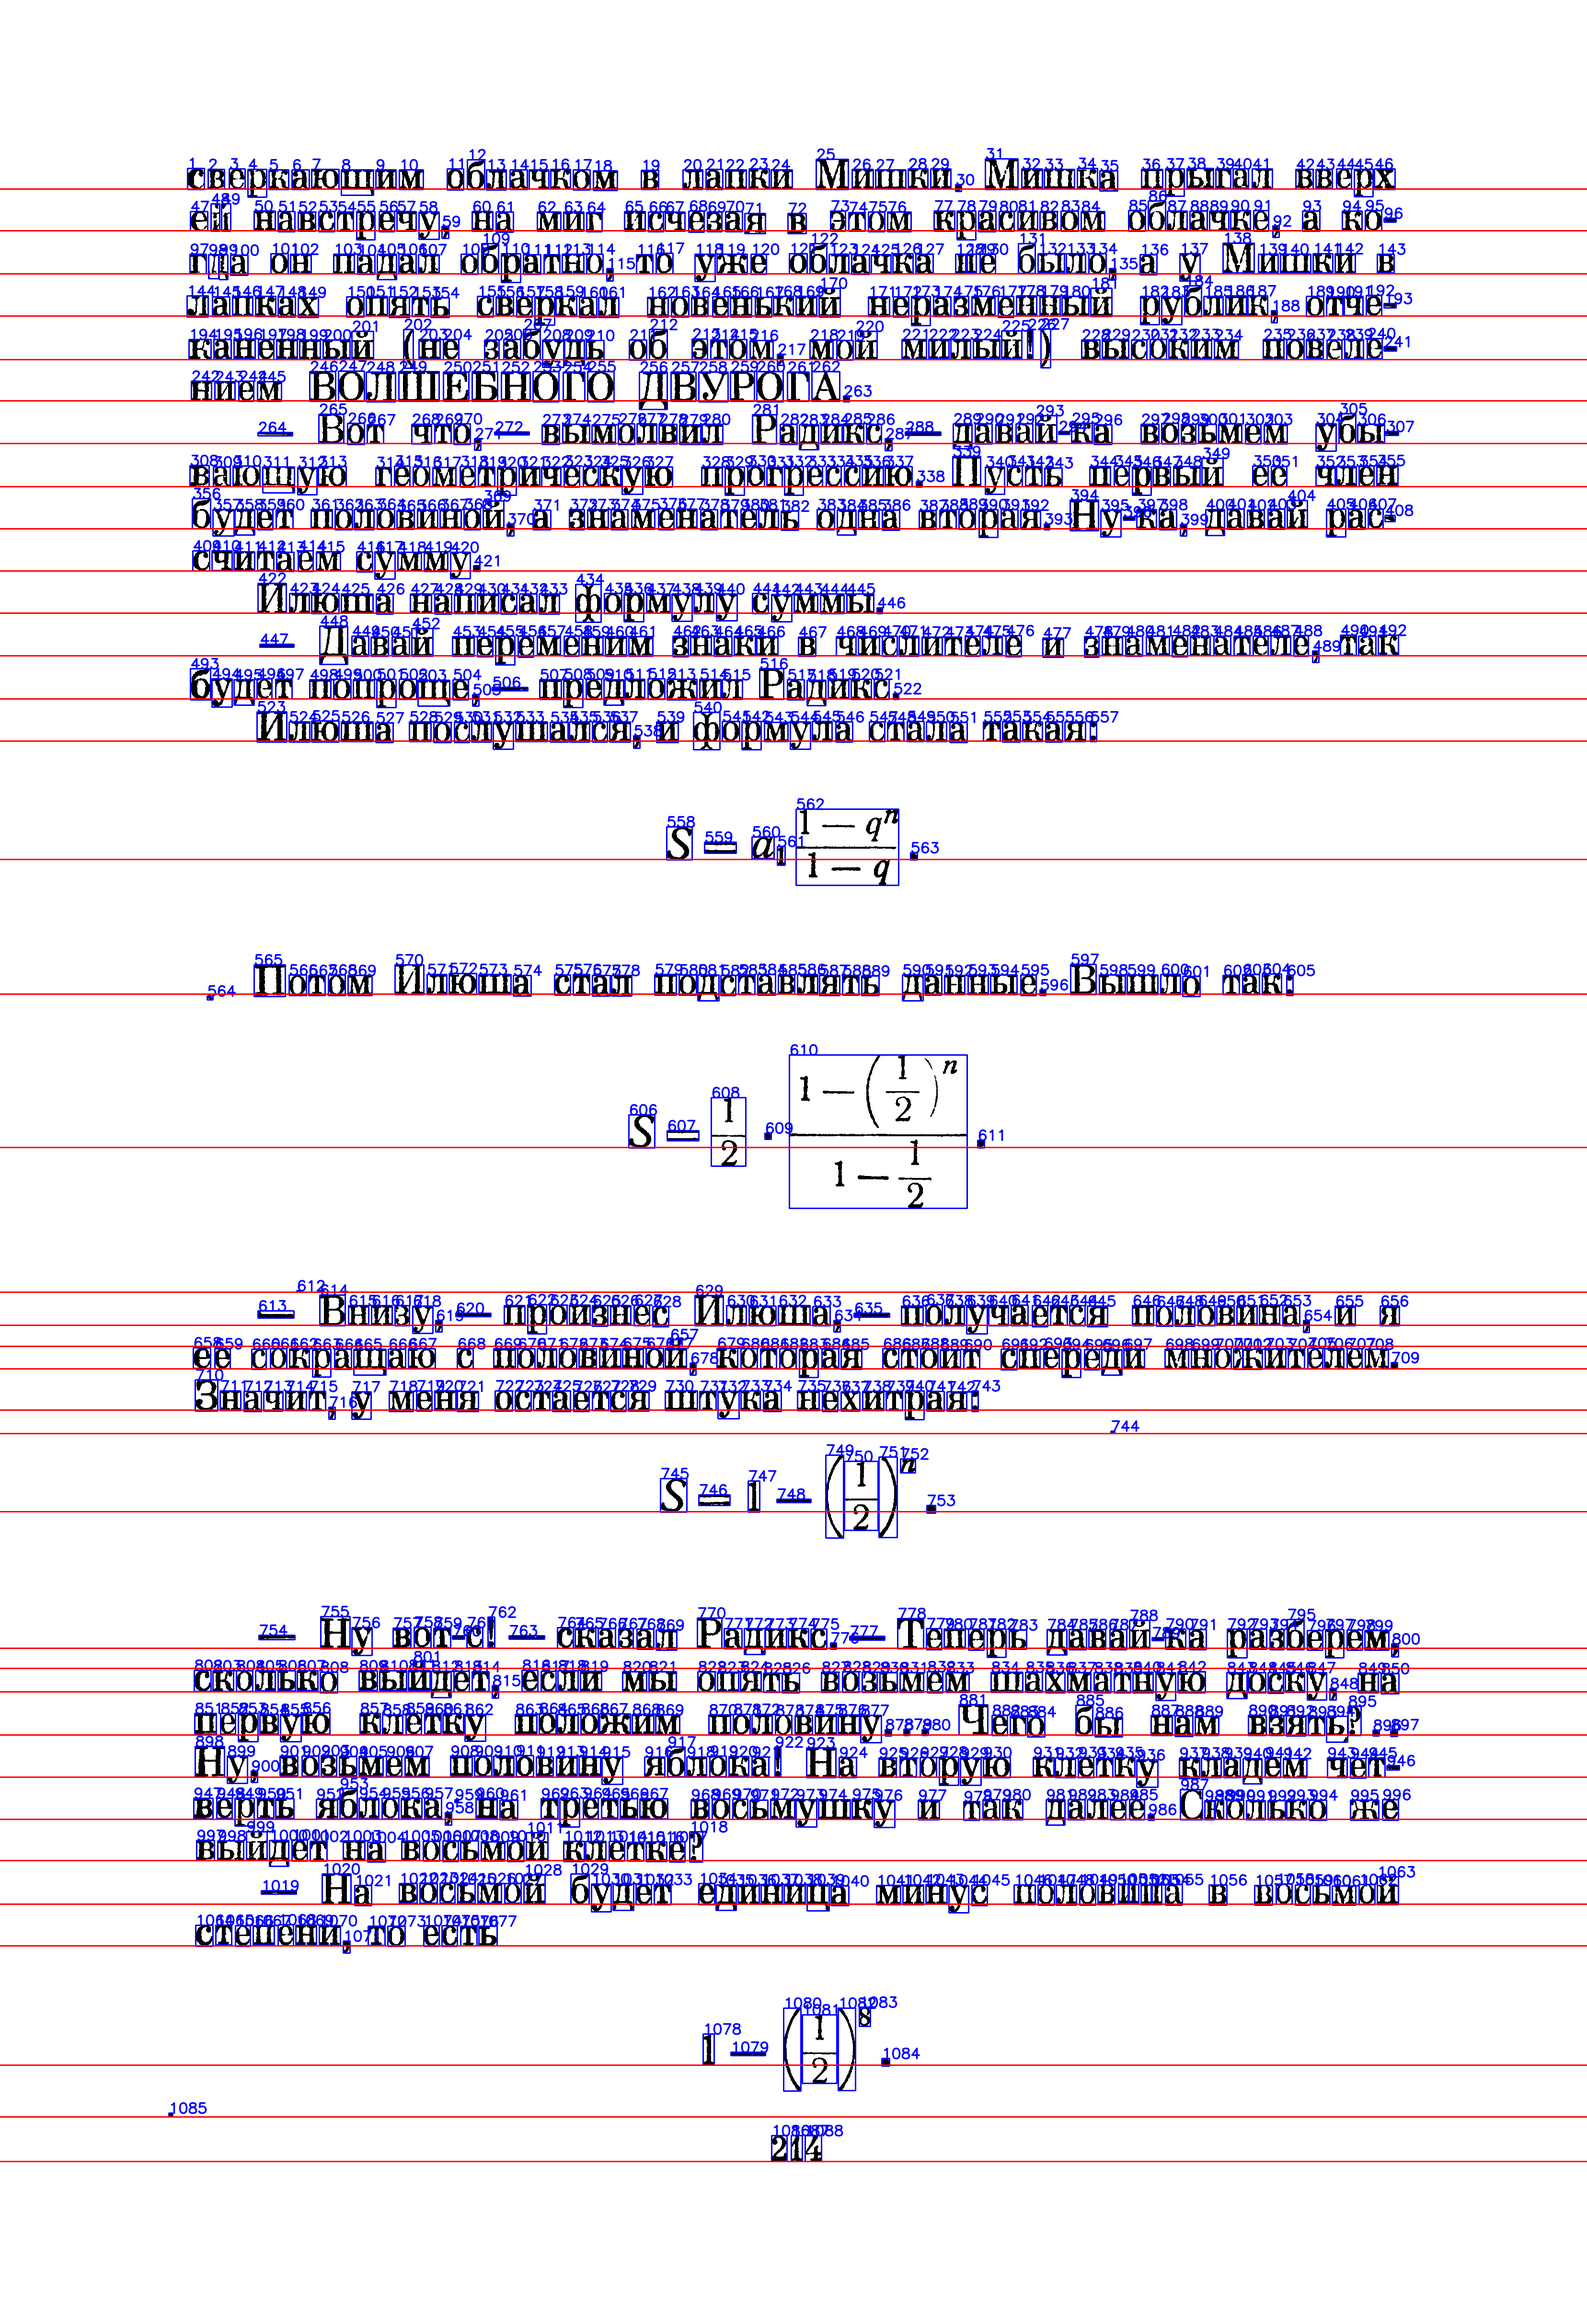
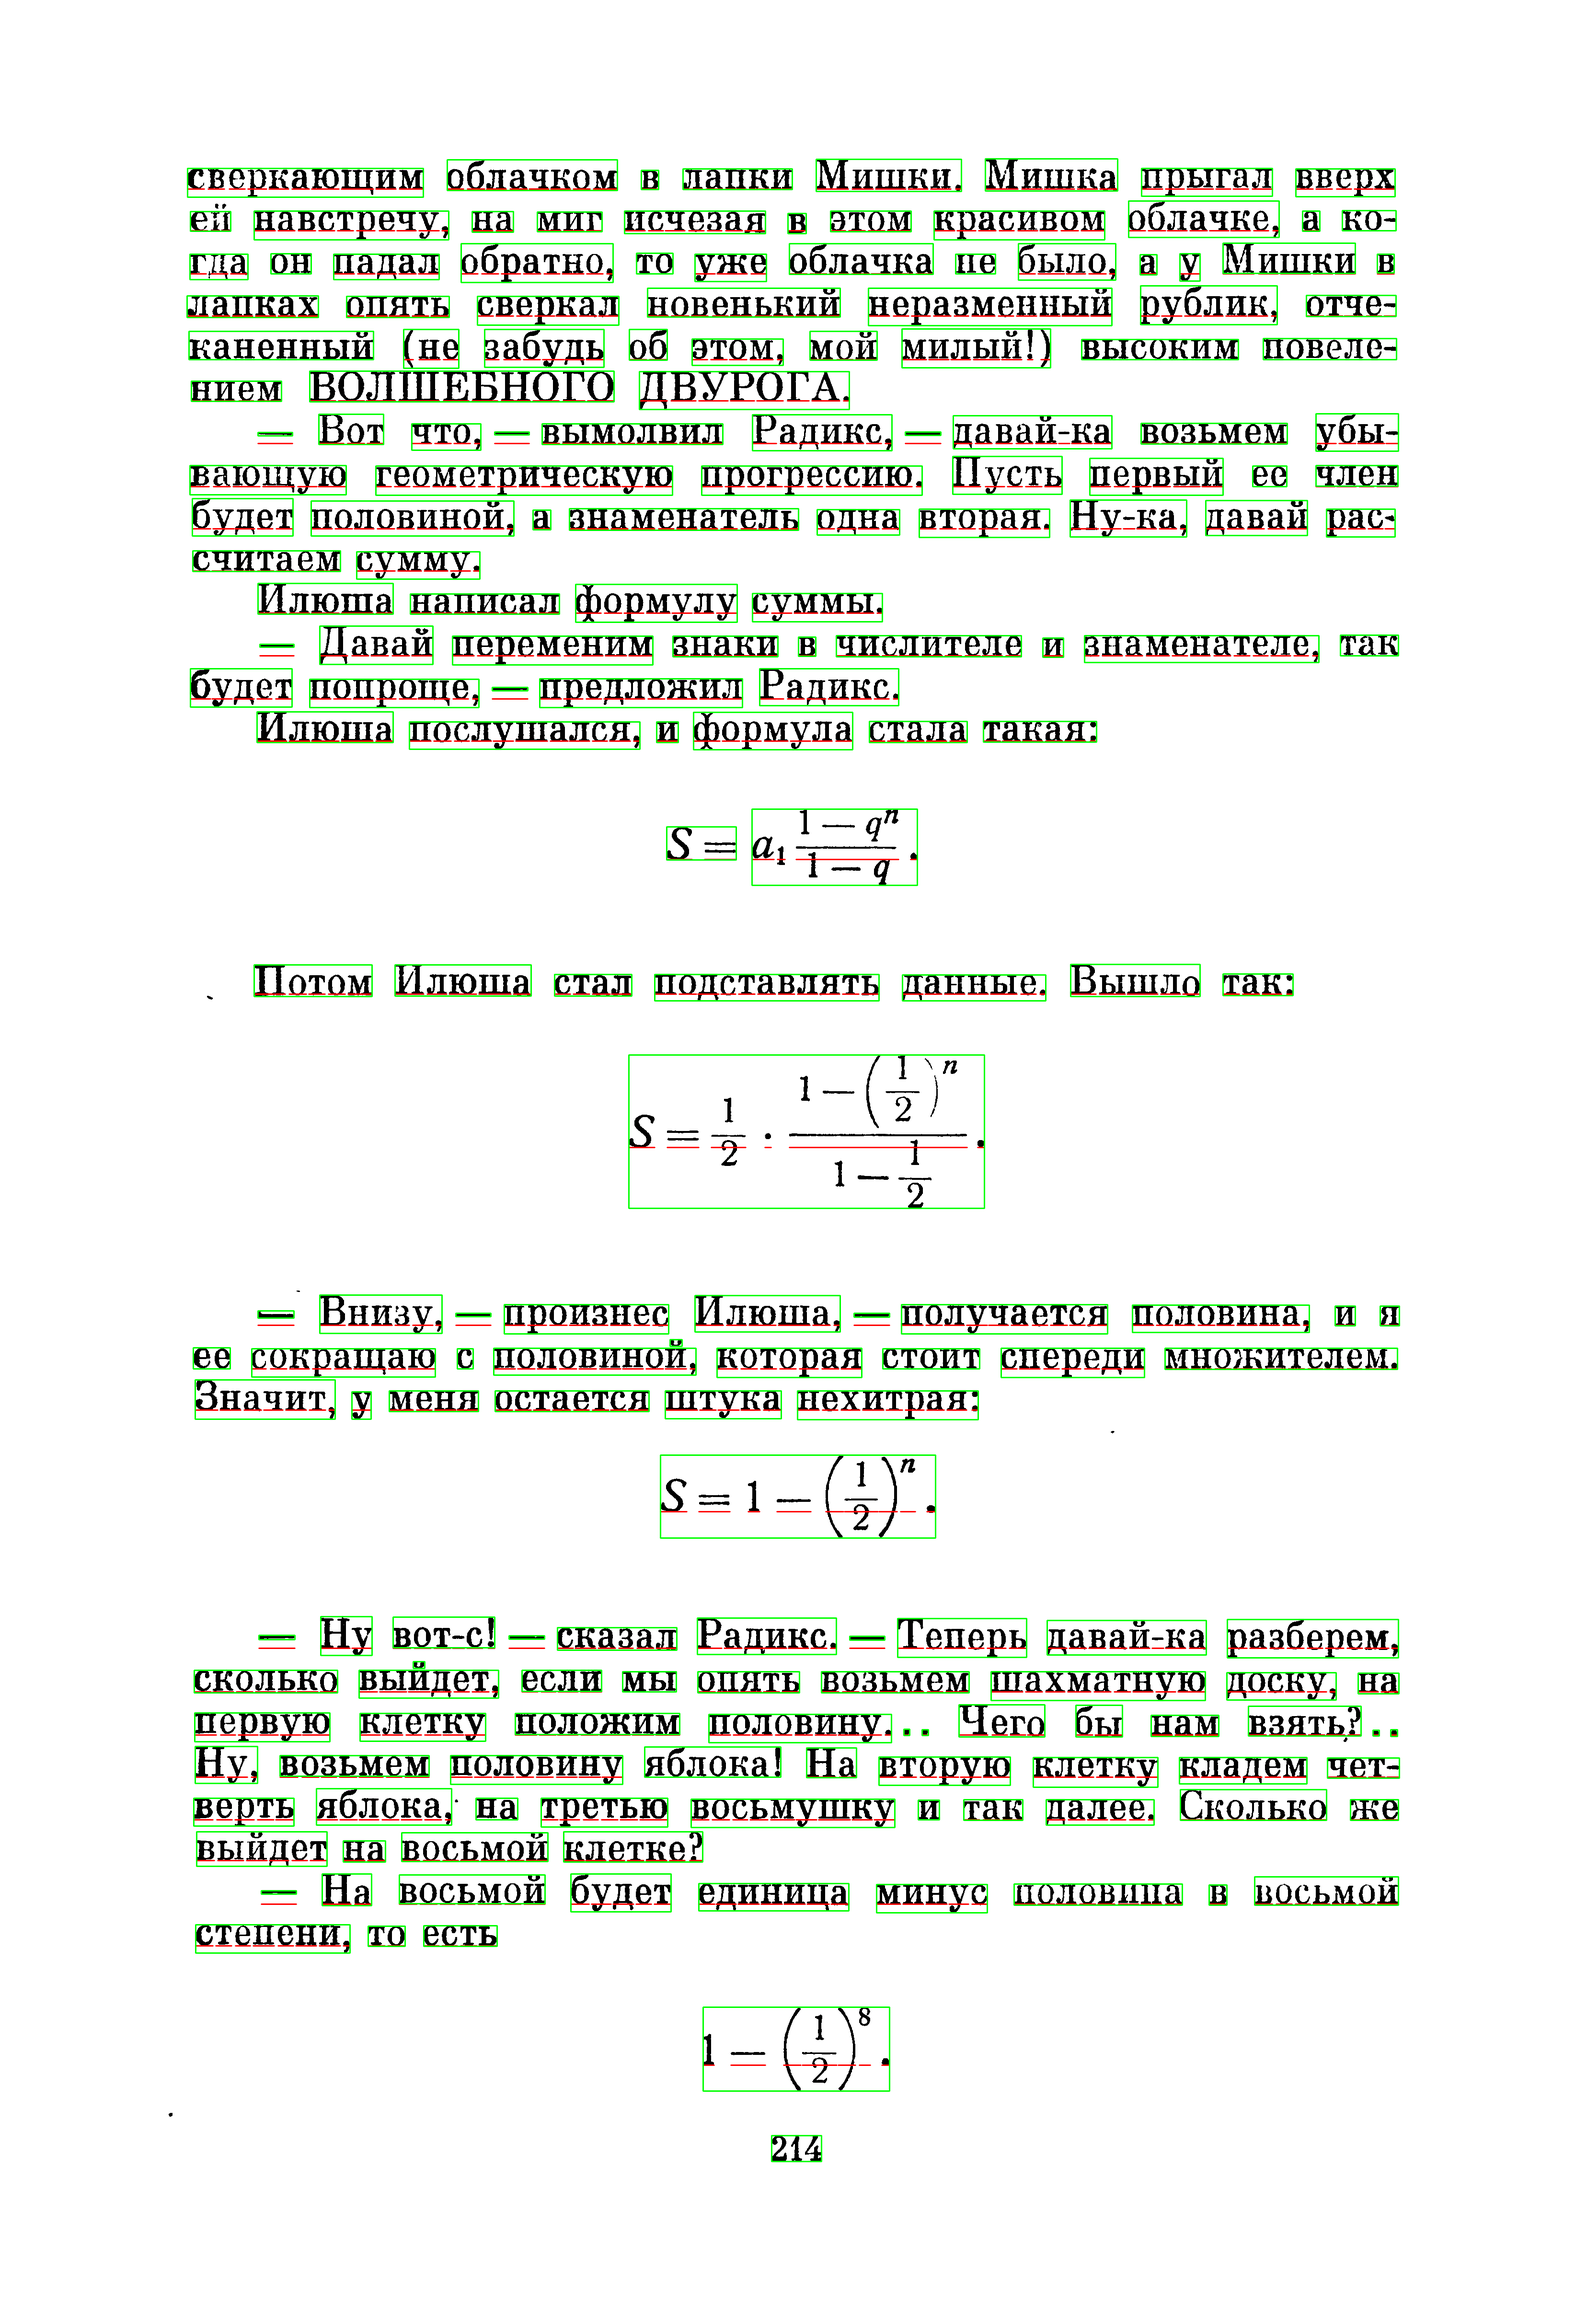
ignore small components

diff --git a/segmentation.py b/segmentation.py
@@ -1,10 +1,34 @@
+import copy
 from collections import defaultdict
 
 import cv2
 import intervaltree
 import networkx as nx
 from pyflann import *
-from segm import join_rects
+from segm import join_rects, glyph_result
+
+
+class Glyph:
+    def __init__(self, gr, baseline):
+        self.baseline_shift = baseline - gr.y
+        self.x = gr.x
+        self.y = gr.y
+        self.width = gr.width
+        self.height = gr.height
+
+    @staticmethod
+    def from_glyph_results(glyph_results, baseline):
+        return [Glyph(gr, baseline) for gr in glyph_results]
+
+    def __str__(self):
+        return f"x = {self.x}, y = {self.y}, width = {self.width}, height = {self.height}, shift = {self.baseline_shift}"
+
+
+def find_baseline(glyphs):
+    lowers = [g.y + g.height for g in glyphs]
+    hist, bin_edges = np.histogram(lowers, bins=50)
+    maxind = np.argmax(hist)
+    return bin_edges[maxind]
 
 
 def all_pairs(s):
@@ -81,6 +105,42 @@ def find_neighbors(jr, nearest_neighbors):
     return ret_val
 
 
+def word_limits(interword_gaps, glyphs):
+    glyphs = copy.copy(glyphs)
+    arr = list(interword_gaps.keys())
+    words = []
+    if len(arr) == 0:
+        words.append(copy.copy(glyphs[:]))
+        return words
+
+    limits = [arr[0]]
+    for i, el in enumerate(arr):
+        if i != len(arr) - 1:
+            limits.append(arr[i + 1] - el)
+        else:
+            limits.append(len(glyphs) - el)
+
+    for l in limits:
+        words.append(copy.copy(glyphs[:l]))
+        glyphs[:l] = []
+
+    return words
+
+
+def group_words(glyphs):
+    av_height = np.mean([g.height for g in glyphs])
+    gaps = []
+    interword_gaps = dict()
+    for i in range(1, len(glyphs)):
+        gc = glyphs[i]
+        gp = glyphs[i - 1]
+        gap = gc.x - (gp.x + gp.width)
+        gaps.append(gap)
+        if gap > 0.5 * av_height:
+            interword_gaps[i] = gap
+    return interword_gaps
+
+
 def group_glyphs(glyphs):
     numbered_glyphs = defaultdict(list)
     for i, g in enumerate(glyphs):
@@ -98,23 +158,28 @@ def group_glyphs(glyphs):
         for intr in x:
             inds = numbered_glyphs[(intr.begin, intr.end)]
             all_inds.update(inds)
-        minx = float("inf")
-        maxx = 0
-        miny = float("inf")
-        maxy = 0
-        for ind in all_inds:
-            g = glyphs[ind]
-            if g.x < minx:
-                minx = g.x
-            if g.x + g.width > maxx:
-                maxx = g.x + g.width
-            if g.y < miny:
-                miny = g.y
-            if g.y + g.height > maxy:
-                maxy = g.y + g.height
-        new_rects.append((minx, maxx - minx, miny, maxy - miny))
+        maxx, maxy, minx, miny = bounding_rect(all_inds, glyphs)
+        new_rects.append(glyph_result((minx, miny, maxx - minx, maxy - miny)))
 
     return new_rects
+
+
+def bounding_rect(all_inds, glyphs):
+    minx = float("inf")
+    maxx = 0
+    miny = float("inf")
+    maxy = 0
+    for ind in all_inds:
+        g = glyphs[ind]
+        if g.x < minx:
+            minx = g.x
+        if g.x + g.width > maxx:
+            maxx = g.x + g.width
+        if g.y < miny:
+            miny = g.y
+        if g.y + g.height > maxy:
+            maxy = g.y + g.height
+    return maxx, maxy, minx, miny
 
 
 def find_ordered_glyphs(filename):
@@ -129,6 +194,7 @@ def find_ordered_glyphs(filename):
     centroids = np.zeros((len(jr), 2))
     for i, r in enumerate(jr):
         centroids[i, :] = np.array([r.x + r.width / 2, r.y + r.height / 2])
+
     flann = FLANN()
     params = flann.build_index(centroids, algorithm="kdtree", trees=4)
     nearest_neighbors, dists = flann.nn_index(centroids, 20, checks=params["checks"])
@@ -160,28 +226,66 @@ def find_ordered_glyphs(filename):
 
     lines = dict(sorted(lines.items(), key=lambda x: x[0].begin))
     new_lines = dict()
+    baselines = []
+    lines_of_words = []
     for k, v in lines.items():
         grouped_glyphs = group_glyphs(v)
-        new_lines[k] = sorted(grouped_glyphs, key=lambda x: x[0])
+        lower = find_baseline(grouped_glyphs)
+        baselines.append(lower)
+        all_glyphs = sorted(grouped_glyphs, key=lambda x: x[0])
+        interword_gaps = group_words(all_glyphs)
+        words = word_limits(interword_gaps, all_glyphs)
+        ##aaa = [Glyph.from_glyph_results(word, lower) for word in words]
+        lines_of_words.append([Glyph.from_glyph_results(word, lower) for word in words])
+        new_lines[k] = all_glyphs
 
     t = [v for k, v in new_lines.items()]
     flat_list = [item for sublist in t for item in sublist]
-    return flat_list
+    return flat_list, baselines, lines_of_words
+
+
+def bounding_rects_for_words(words):
+    new_rects = []
+    for w in words:
+        maxx, maxy, minx, miny = bounding_rect(range(len(w)), w)
+        new_rects.append(glyph_result((minx, miny, maxx - minx, maxy - miny)))
+    return new_rects
 
 
 if __name__ == "__main__":
     filename = "vd_p214.png"
     orig = cv2.imread(filename)
-    glyphs = find_ordered_glyphs(filename)
-    counter = 1
-    font = cv2.FONT_HERSHEY_SIMPLEX
-    for gl in glyphs:
-        cv2.rectangle(
-            orig, (gl[0], gl[2]), (gl[0] + gl[1], gl[2] + gl[3]), (255, 0, 0), 2
-        )
-        cv2.putText(
-            orig, str(counter), (gl[0], gl[2]), font, 1, (255, 0, 0), 2, cv2.LINE_AA
-        )
-        counter += 1
+    h, w, _ = orig.shape
+    glyphs, baselines, lines_of_words = find_ordered_glyphs(filename)
+
+    for words in lines_of_words:
+        for word in words:
+            for glyph in word:
+                cv2.line(
+                    orig,
+                    (glyph.x, glyph.y + int(glyph.baseline_shift)),
+                    (glyph.x + glyph.width, glyph.y + int(glyph.baseline_shift)),
+                    (0, 0, 255),
+                    2,
+                )
+        rects = bounding_rects_for_words(words)
+        for gl in rects:
+            cv2.rectangle(
+                orig, (gl.x, gl.y), (gl.x + gl.width, gl.y + gl.height), (0, 255, 0), 2
+            )
+
+    # counter = 1
+    # font = cv2.FONT_HERSHEY_SIMPLEX
+    # for gl in glyphs:
+    #     cv2.rectangle(
+    #         orig, (gl.x, gl.y), (gl.x + gl.width, gl.y + gl.height), (255, 0, 0), 2
+    #     )
+    #     cv2.putText(
+    #         orig, str(counter), (gl.x, gl.y), font, 1, (255, 0, 0), 2, cv2.LINE_AA
+    #     )
+    #     counter += 1
+    #
+    # for l in baselines:
+    #    cv2.line(orig, (0, int(l)), (w, int(l)), (0, 0, 255), 2)
 
     cv2.imwrite("segmented.png", orig)

diff --git a/segm/segm.cpp b/segm/segm.cpp
@@ -61,18 +61,38 @@ static PyObject* get_joined_rects(PyObject* self, PyObject *args)
         connectedComponentsWithStats(mat, labeled, rectComponents, centComponents);
         int count = rectComponents.rows - 1;
 
+        std::vector<int> areas;
+        double sum_of_areas = 0.0;
+
         for (int i = 1; i < rectComponents.rows; i++)
         {
             int x = rectComponents.at<int>(Point(0, i));
             int y = rectComponents.at<int>(Point(1, i));
             int w = rectComponents.at<int>(Point(2, i));
             int h = rectComponents.at<int>(Point(3, i));
+            int area = rectComponents.at<int>(Point(4, i));
 
             Rect rectangle(x, y, w, h);
             rects.push_back(rectangle);
+            areas.push_back(area);
+            sum_of_areas += area;
         }
 
-        joined_rects = join_rects(rects);
+        double avg_area = sum_of_areas / count;
+
+        std::vector<cv::Rect> filtered_rects;
+        for (int i = 0; i<rects.size(); i++) 
+        {
+            cv::Rect r = rects[i];
+            int area = areas[i];
+            if (area < avg_area / 10) {
+                continue;
+            } else {
+                filtered_rects.push_back(r);
+            }
+        }
+
+        joined_rects = join_rects(filtered_rects);
         Enclosure enc(joined_rects);
         enclosing_rects = enc.solve();
 
